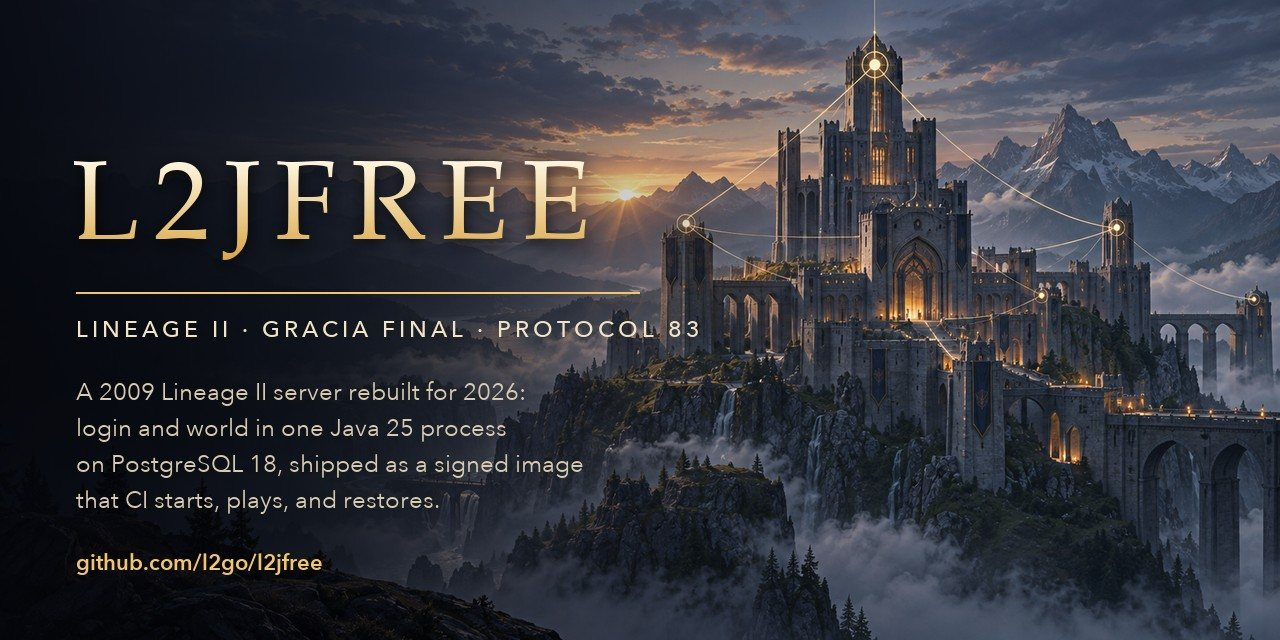
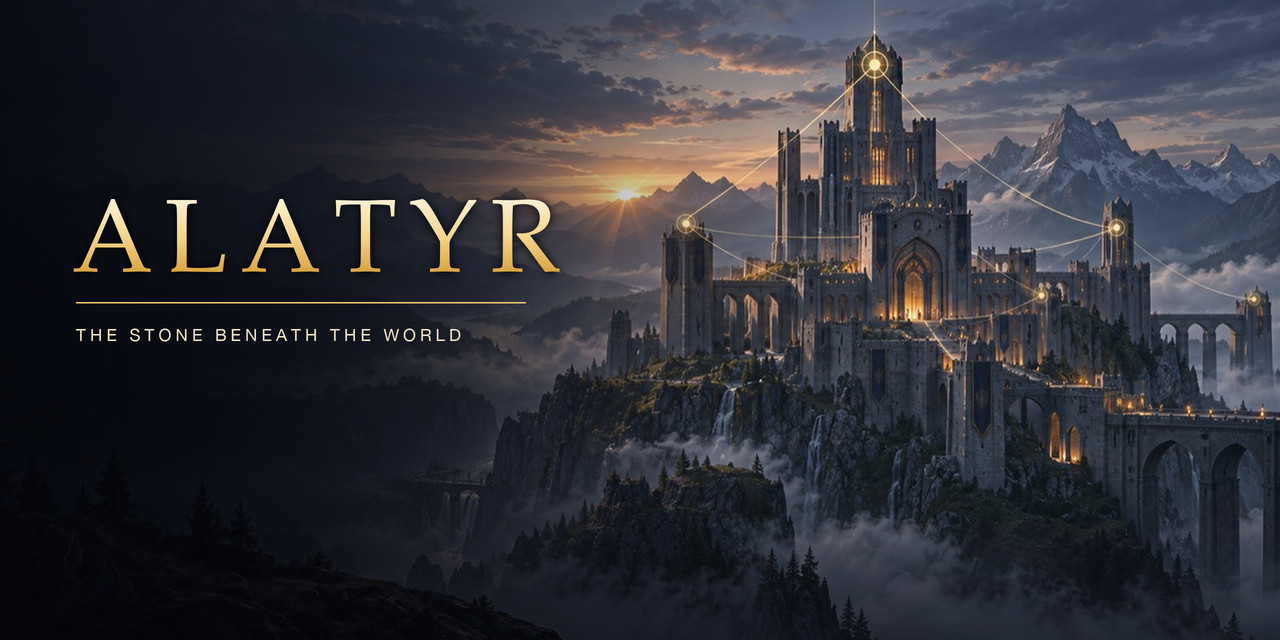
Publish part 4 of the series: One save, one transaction (#349)
* Replace the transaction cover and the social card

The cover of part 4 was a crop of the site banner. It becomes an
original scene of the same island: a chest closed under one lock in a
stone niche above the sea, for a save that keeps everything together.

The social card still showed the former name and a protocol line. It
now matches the repository hero: Alatyr, the stone beneath the world.
Both images carry no metadata.

* Publish part 4 of the series: One save, one transaction

Explain how a player save that wrote the character and the items on
different connections became one transaction: a connection that
follows the thread, and rollback hooks that put item flags back.

Link the article from the series list and from part 3, and add it to
the sitemap. Code references point at the 3.1.1 tag in l2go/alatyr.

* Keep the part 4 cover subject inside the phone crop

The article header is tall on a phone, so object-fit keeps only a strip
about a quarter of the cover wide. Centred, that strip cut through the
chest, which sits right of centre. Give such covers a focal point at
66% so the chest stays whole from 360 to 430 pixels wide.

Drop an unmeasured duration from the article: the code shows that the
locks last until the commit, not how many milliseconds that takes.

* Make part 4 match the code and name its alternatives

Two independent reviews found claims stronger than the 3.1.1 code and
its tests. Rollback restores the item flags, not the in-memory values;
[…]

diff --git a/notes/one-save-one-transaction/index.html b/notes/one-save-one-transaction/index.html
@@ -1,0 +1,124 @@
+<!doctype html>
+<html lang="en">
+<head>
+<meta charset="utf-8">
+<meta name="viewport" content="width=device-width, initial-scale=1">
+<meta http-equiv="Content-Security-Policy" content="default-src 'none'; script-src 'self'; style-src 'self'; img-src 'self'; font-src 'self'; base-uri 'none'; form-action 'none'">
+<meta name="referrer" content="strict-origin-when-cross-origin">
+<title>One save, one transaction — L2JFree</title>
+<meta name="description" content="A character save and its item writes used separate database connections. A failure could leave them out of sync. One transaction now groups the save's writes, and rollback restores the item flags needed to retry. Writes outside a save keep their background queue.">
+<meta name="theme-color" content="#05060c">
+<meta property="og:type" content="article">
+<meta property="og:title" content="One save, one transaction">
+<meta property="og:description" content="A character save and its item writes used separate database connections. A failure could leave them out of sync. One transaction now groups the save's writes, and rollback restores the item flags needed to retry. Writes outside a save keep their background queue.">
+<meta property="og:url" content="https://l2go.github.io/alatyr/notes/one-save-one-transaction/">
+<meta property="og:image" content="https://l2go.github.io/alatyr/assets/img/covers/transaction.jpg">
+<meta property="article:published_time" content="2026-10-23">
+<meta name="twitter:card" content="summary_large_image">
+<link rel="icon" href="/alatyr/assets/img/favicon.svg" type="image/svg+xml">
+<link rel="author" href="/alatyr/humans.txt">
+<link rel="preload" href="/alatyr/assets/fonts/cinzel.woff2" as="font" type="font/woff2" crossorigin>
+<link rel="stylesheet" href="/alatyr/assets/css/site.css">
+<script src="/alatyr/assets/js/site.js"></script>
+</head>
+<body>
+<a class="skip" href="#main">Skip to content</a>
+<div class="progress" aria-hidden="true"></div>
+<header class="bar">
+  <a class="bar__mark" href="/alatyr/">L2JFREE</a>
+  <nav aria-label="Sections">
+    <a href="/alatyr/#start">Start</a>
+    <a class="opt" href="/alatyr/#engineering">Engineering</a>
+    <a href="/alatyr/#notes">Notes</a>
+    <a href="https://github.com/l2go/alatyr">GitHub</a>
+  </nav>
+</header>
+<main id="main">
+<article>
+<header class="article-head article-head--focus-right">
+  <picture><source srcset="/alatyr/assets/img/covers/transaction.webp" type="image/webp"><img src="/alatyr/assets/img/covers/transaction.jpg" alt="" width="1600" height="667"></picture>
+  <div class="wrap">
+    <div class="crumbs"><a href="/alatyr/#notes">Reviving L2JFree</a> · Part 4</div>
+    <h1>One save, one transaction</h1>
+    <p class="dek">A character save and its item writes used separate database connections. A failure could leave them out of sync. One transaction now groups the save's writes, and rollback restores the item flags needed to retry. Writes outside a save keep their background queue.</p>
+    <div class="byline"><time datetime="2026-10-23">23 October 2026</time> · 7 min read</div>
+  </div>
+</header>
+<div class="prose">
+<p>In an online game, a lost or duplicated item changes what a player owns. L2JFree could save a character and its items independently, leaving them out of sync after a failure. The fix needed to make one save atomic without turning a persistence repair into a server-wide refactor.</p>
+
+<h2>The problem</h2>
+<p>In Lineage II, an online role-playing game, one player-controlled character spans several database rows. Depending on the save call and configuration, a save can include its character record, a companion pet if present, temporary status effects, and its inventory, the items it carries. In the inherited Java server, those writes did not share a transaction.</p>
+<p>The character, pet, and effects were written on the thread running <code>store()</code>, the character-save method. Items went through an SQL queue: one background writer for the whole process that grouped writes on a separate database connection. It kept frequent item writes off the caller's path, which was worth preserving outside a save. But a save had two independent write paths, and <code>store()</code> could return before the queued item writes ran.</p>
+<p>The consequences were the quiet kind:</p>
+<ul>
+<li>A failure could leave the character and its items reflecting different save attempts.</li>
+<li>After rollback, a later save could skip the item writes because the in-memory flags already said those items were stored.</li>
+</ul>
+<p>Each item tracks two things: whether its database row exists, and whether that row matches the current in-memory values. A write updates that bookkeeping before the transaction commits. If the transaction rolls back, PostgreSQL discards the writes, but Java does not automatically restore the flags.</p>
+
+<h2>The decision</h2>
+<p>Put the writes selected for one player save in one database transaction. They commit together or roll back together. On rollback, restore the item flags to their pre-write values; keep the changed item values in memory so the next save can write them.</p>
+<p>Passing a connection into every call is the better shape for new code, because the boundary sits in the signature and the compiler catches a missing one. Connection acquisition was spread across the persistence layer: 106 classes outside the factory acquired connections directly in the main sources of 3.1.1. That is the size of the layer, not the required change set for this save. Converting the whole layer to explicit connections would also require changing the inherited <code>finally</code> blocks that close connections or flip auto-commit. I chose to establish this save boundary through the existing factory instead.</p>
+<p>Enlisting the SQL queue was the other local option. The queue is one deque for every player, drained on another thread, each statement committing alone; pulled into this save, it would commit or roll back other players' writes with it.</p>
+<p>An outbox would commit the character row and apply the items later, which is the split this change removes. XA would add distributed-transaction coordination where one PostgreSQL transaction is enough.</p>
+<p>So the save boundary goes through the existing connection factory, and during a save the item writes bypass the queue and join the character's transaction. Outside a save, they keep the queue.</p>
+
+<h2>A transaction that follows the thread</h2>
+<p><a href="https://github.com/l2go/alatyr/blob/v3.1.1/l2jfree-core/src/main/java/com/l2jfree/gameserver/persistence/WorldTransaction.java"><code>WorldTransaction</code></a> runs a piece of work in one database transaction. While it runs, every connection that <code>L2DatabaseFactory.getConnection()</code> hands out on the same thread is the connection of the transaction. The old code keeps calling the factory exactly as before; it just gets the same connection each time.</p>
+<pre class="code"><code>boolean committed = WorldTransaction.run("store the player", () -&gt; {
+	// everything here that asks the factory for a connection
+	// gets the one connection of this transaction
+});</code></pre>
+<p>Existing methods still close their connections in <code>finally</code> blocks, and some change auto-commit, the mode in which each SQL statement commits on its own. They cannot be allowed to end the surrounding transaction. The factory therefore returns a wrapper around the real connection. It ignores <code>close</code>, <code>setAutoCommit</code>, and the no-argument <code>commit()</code> and <code>rollback()</code>; <code>WorldTransaction</code> owns the final commit or rollback. Nothing in this tree takes a savepoint. A nested call joins the outer transaction rather than starting an independently committed one.</p>
+<p>The work rolls back when it throws. The inherited item writes, though, do not throw: they catch a failure and log it. On PostgreSQL a failed statement aborts the transaction, and <code>WorldTransaction</code> checks with <code>SELECT 1</code> before committing, so a swallowed SQL error still rolls the whole save back. A failure that is not an SQL error, caught inside an item write, does not abort the transaction, and the rest of the save can commit.</p>
+
+<h2>Making a failed save retryable</h2>
+<p>PostgreSQL rolls back database writes; it cannot roll back fields in a Java object. The item flags therefore need their own undo step.</p>
+<p><code>WorldTransaction.onRollback(Runnable)</code> registers code to run if the transaction rolls back. Before writing, an item records its existing flags. Rollback restores those flags, not the item's gameplay values. The changed item still needs saving, and the next save no longer skips it.</p>
+<p>The change in <a href="https://github.com/l2go/alatyr/pull/162">#162</a> is small, and narrower than "every save". <code>L2Player.store(true, true)</code>, the call a disconnect makes, writes the player's inventory and the pet's inventory on the same connection as the character, the pet, and the effects; a disconnect tries that save up to three times. The periodic auto-save calls <code>store()</code> without arguments, and with the shipped <code>UpdateItemsOnCharStore = False</code> it does not write the player's inventory. The pet's inventory is written on every save. Item writes outside a save still go through the queue.</p>
+
+<h2>What it cost</h2>
+<ul>
+<li><strong>Row locks held until the commit.</strong> The rows belong to one player's save, not the whole world, but another writer of those rows waits, and the queue is such a writer. This change does not establish a save-latency or throughput budget.</li>
+<li><strong>Two item-write paths.</strong> Outside a save, the queue still takes the write: one shared deque, another thread, its own connection. A queued write and a save of the same item both take that item's monitor, and the queue reads the flags again before it chooses insert, update, or delete. That ordering is part of correctness and has to stay true as the code changes.</li>
+<li><strong>An implicit transaction dependency.</strong> Callers keep the factory API, so the active transaction is invisible in their parameters, and work handed to another thread leaves it behind. One save does not change thread. For the same reason, the shared queue must not be flushed while the save transaction is active: it asks the factory for a connection, so it would join this transaction and carry every other player's pending writes with it.</li>
+<li><strong>A pet edge that is not closed.</strong> A pet row references its control item, the inventory item that identifies the pet. Before #162 the save flushed the queue first, so that item was committed before the pet. That flush is gone, and the periodic save does not write the player's inventory, so on that path the control item can still be waiting in the queue when the pet row is written.</li>
+</ul>
+
+<h2>How it is verified</h2>
+<p>Two tests guard the mechanism, against PostgreSQL 18, not a mock. <a href="https://github.com/l2go/alatyr/blob/v3.1.1/l2jfree-core/src/test/java/com/l2jfree/L2DatabaseFactoryTransactionTest.java"><code>L2DatabaseFactoryTransactionTest</code></a> guards the one connection per thread, the wrapper that cannot end the transaction, and the rollback after a swallowed SQL error. <a href="https://github.com/l2go/alatyr/blob/v3.1.1/l2jfree-core/src/test/java/com/l2jfree/gameserver/model/items/PlayerItemSavePostgresTest.java"><code>PlayerItemSavePostgresTest</code></a> guards the character and the items:</p>
+<ol>
+<li>Save an existing item row with quantity 4. In memory, change its quantity to 9 and create another item with quantity 3.</li>
+<li>In one transaction, write both items and a new character title, a display label, then throw an exception to force rollback.</li>
+<li>Reopen the pooled database connections and read through fresh ones. The title is unchanged, the new item is absent, and the existing item still has quantity 4. In memory, the new item knows it has no row; the existing item knows its row exists but does not match memory, and its quantity is still 9.</li>
+<li>Save again without the exception. Read through fresh connections again: the saved title and item quantities 3 and 9 are all present.</li>
+</ol>
+<p>Step 3 checks that rollback leaves the previous database state visible through new connections. Step 4 checks that the same in-memory items can still be saved afterwards. Refreshing the connections is not a server restart; this test isolates rollback and retry, not crash recovery.</p>
+<p>The same transaction later carried two more fixes, and they are not the rollback hook. Replacing a subclass, an alternate class a character can switch to, deletes the old row and inserts the new one in one transaction (<a href="https://github.com/l2go/alatyr/pull/203">#203</a>). The character's map drops that subclass only after the transaction commits, so a rolled-back delete leaves it in the database and in memory (<a href="https://github.com/l2go/alatyr/issues/175">#175</a>). Neither fix is covered by the tests above.</p>
+<p>The database must commit the save as a unit; the objects must still know what needs saving if it rolls back. That is the boundary: one player save, not one SQL statement.</p>
+<div class="aside"><strong>Update, 23 October 2026.</strong> The project's <a href="https://github.com/l2go/alatyr/blob/6ac0b3962975051ff7c3bd39790ecad0a7770306/engine/go/world/doc.go">Go world module</a> names the same distinction. <code>Commit</code> records an in-memory gameplay outcome, not a database commit. For skill learning, <code>Durability</code> reports the result of the subsequent storage write. If that write fails, the learned state remains in memory and its outcome is not rewritten as a rollback. These are separate promises; the module does not provide transactional persistent storage.</div>
+</div>
+<nav class="series" aria-label="Series">
+<a href="/alatyr/notes/an-island-of-our-own/"><small>Previous</small><span>An island of our own</span></a>
+<div class="empty later"><small>Next, soon</small><span>Every merge is a release rehearsal</span></div>
+</nav>
+</article>
+</main>
+<footer class="foot">
+  <div class="wrap">
+    <div class="foot__top">
+      <span class="foot__mark" title="L2JFREE = SIGNED = 58">L2JFREE</span>
+      <nav aria-label="Project">
+        <a href="https://github.com/l2go/alatyr">Repository</a>
+        <a href="https://github.com/l2go/alatyr/releases">Releases</a>
+        <a href="https://github.com/l2go/alatyr/blob/main/deploy/README.md">Deploy guide</a>
+        <a href="https://github.com/l2go/alatyr/blob/main/SECURITY.md">Security</a>
+      </nav>
+    </div>
+    <p>Lineage II and NCSOFT are trademarks or registered trademarks of NCSOFT Corporation. L2JFree is an independent, non-commercial open-source project, not affiliated with, endorsed, or sponsored by NCSOFT. The project modernizes an archived open-source server. Since 3.2 it ships no data inherited from the fork; its world, Okolitsa, is original content. It does not modify, patch, or distribute the game client.</p>
+    <p>The code is under the GNU GPLv3. Banner art generated with AI. Cinzel typeface under the SIL Open Font License. <a class="sigma" href="/alatyr/numbers/" title="The numbers">Σ</a></p>
+  </div>
+</footer>
+</body>
+</html>

diff --git a/index.html b/index.html
@@ -293,11 +293,14 @@
         <div class="note__img"><picture><source srcset="/alatyr/assets/img/covers/island.webp" type="image/webp"><img src="/alatyr/assets/img/covers/island.jpg" alt="" loading="lazy" width="1600" height="667"></picture></div>
         <div class="note__body"><div class="note__meta">Part 3 · 9 min</div><h3>An island of our own</h3><p>Seventeen thousand files of an inherited world out, one island of our own in: a village, a meadow, and a tool that checks every word.</p></div>
       </a>
+      <a class="note reveal" href="/alatyr/notes/one-save-one-transaction/">
+        <div class="note__img"><picture><source srcset="/alatyr/assets/img/covers/transaction.webp" type="image/webp"><img src="/alatyr/assets/img/covers/transaction.jpg" alt="" loading="lazy" width="1600" height="667"></picture></div>
+        <div class="note__body"><div class="note__meta">Part 4 · 7 min</div><h3>One save, one transaction</h3><p>A character save split across two connections, made one transaction, with rollback that leaves the save retryable.</p></div>
+      </a>
     </div>
     <div class="next reveal">
       <b>Next in the series</b>
-      <ol start="4">
-        <li>One save, one transaction</li>
+      <ol start="5">
         <li>Every merge is a release rehearsal</li>
         <li>Releases promote, never rebuild</li>
         <li>Starting a Java 25 server</li>

diff --git a/assets/css/site.css b/assets/css/site.css
@@ -327,6 +327,8 @@ code { font-family: var(--mono); font-size: .9em; }
 
 .article-head { position: relative; min-height: min(78vh, 760px); display: grid; align-items: end; isolation: isolate; overflow: hidden; }
 .article-head picture, .article-head img { position: absolute; inset: 0; width: 100%; height: 100%; object-fit: cover; z-index: -2; }
+/* A cover whose subject sits right of centre keeps it inside the narrow phone crop. */
+.article-head--focus-right picture img { object-position: 66% 50%; }
 .article-head::after { content: ""; position: absolute; inset: 0; z-index: -1; background: linear-gradient(180deg, rgba(5, 6, 12, .55) 0%, rgba(5, 6, 12, .15) 35%, rgba(5, 6, 12, .75) 75%, var(--night) 100%); }
 .article-head .wrap { padding: 8rem 0 3.2rem; }
 .crumbs { font: 500 .72rem/1 var(--sans); letter-spacing: .24em; text-transform: uppercase; color: var(--parchment-2); margin-bottom: 1.4rem; }

diff --git a/notes/an-island-of-our-own/index.html b/notes/an-island-of-our-own/index.html
@@ -248,7 +248,7 @@ heal    ← skill 2031, power                 data/stats/skills/seed.xml</code><
 </div>
 <nav class="series" aria-label="Series">
 <a href="/alatyr/notes/one-process-hard-boundaries/"><small>Previous</small><span>One process, hard boundaries</span></a>
-<div class="empty later"><small>Next, soon</small><span>One save, one transaction</span></div>
+<a href="/alatyr/notes/one-save-one-transaction/"><small>Next</small><span>One save, one transaction</span></a>
 </nav>
 </article>
 </main>
